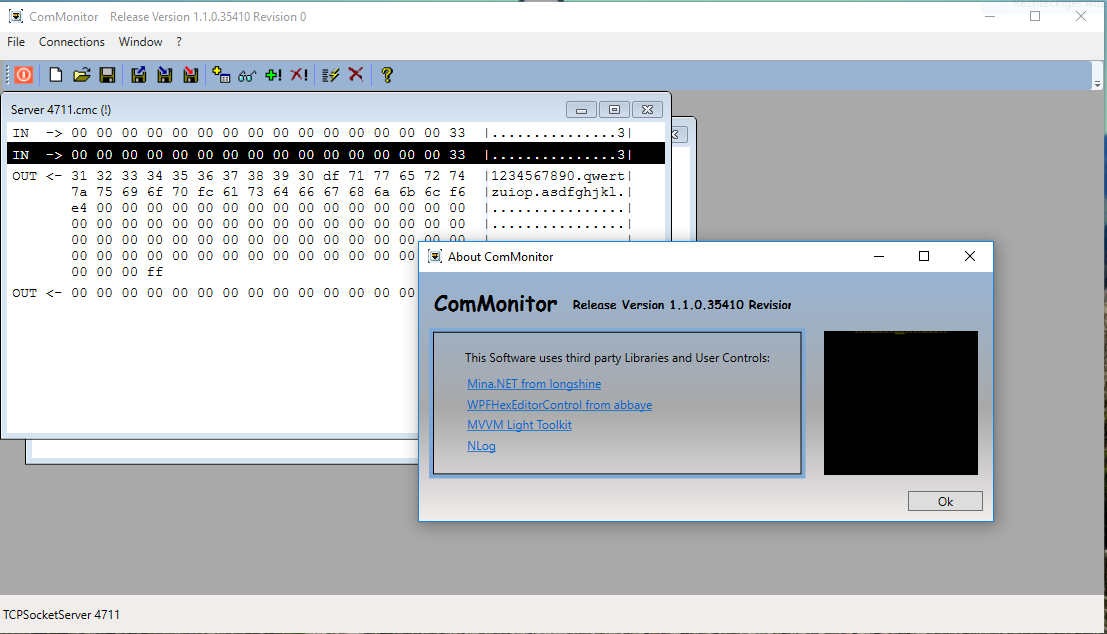
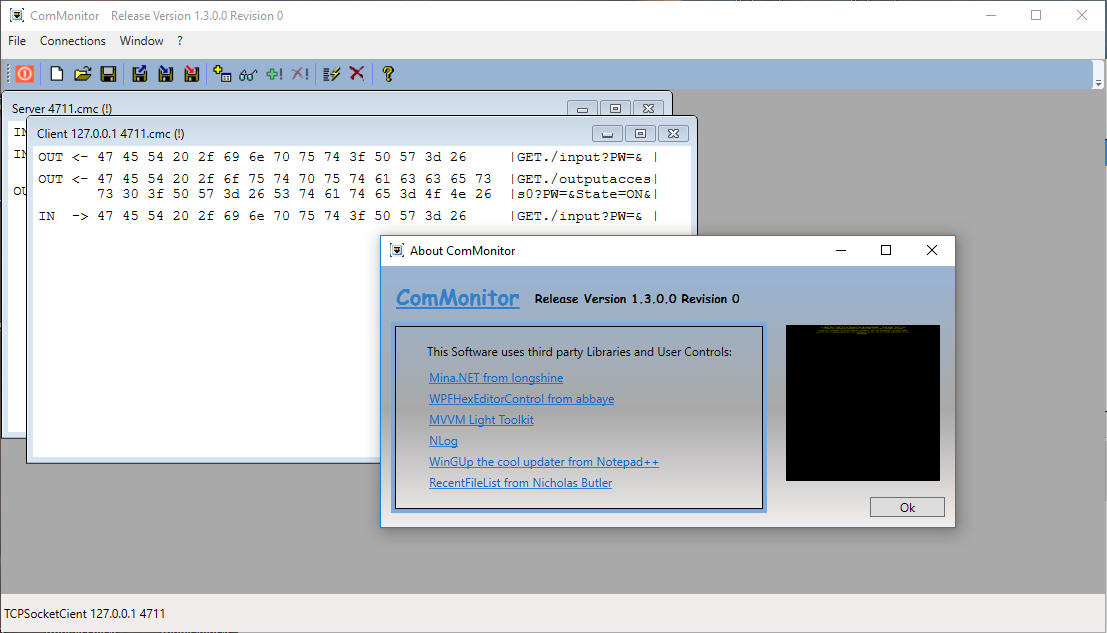
README.md.

Changed region(s): [[0.0, 0.0, 1.0, 1.0], [0.0, 0.9605, 0.1536, 1.0]]

diff --git a/README.md b/README.md
@@ -35,4 +35,4 @@ Pleasant refer the Change Log and List Of Known Bugs for further information:
 
 ![img](https://github.com/uhwgmxorg/ComMonitor/blob/master/Doc/9.png)
 
-A **Setup** is also available [here](http://uhwgmxorg.com/Setup_ComMonitor_x32_1_1_0_32431.zip?dl=0) NOTE: Both the ComMonitor.exe and the Setup*.exe is not signed.
+A **Setup** is also available [here](http://uhwgmxorg.com/Setup_ComMonitor_x32_1_3_0_0.zip?dl=0) NOTE: Both the ComMonitor.exe and the Setup*.exe is not signed.
